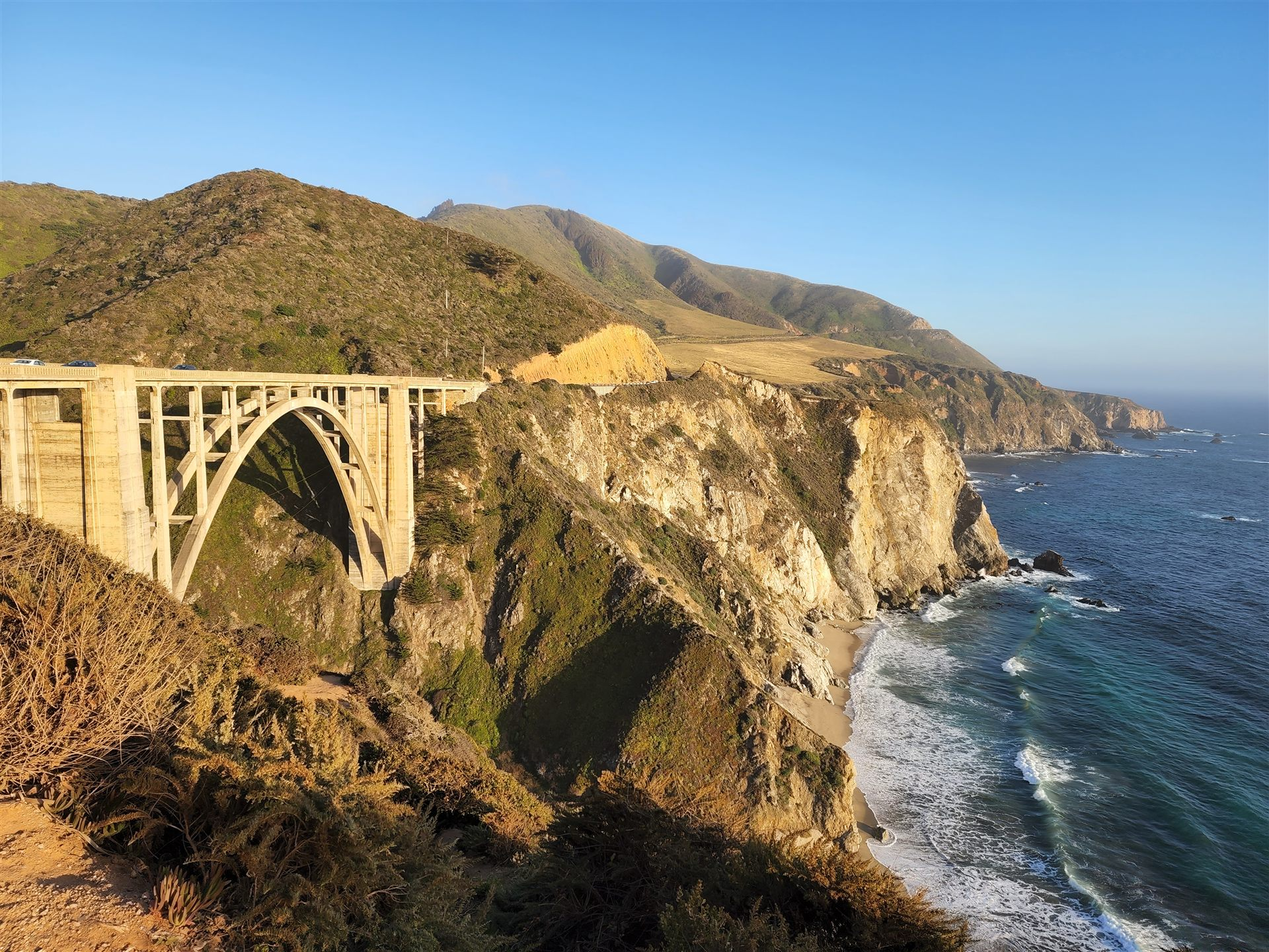
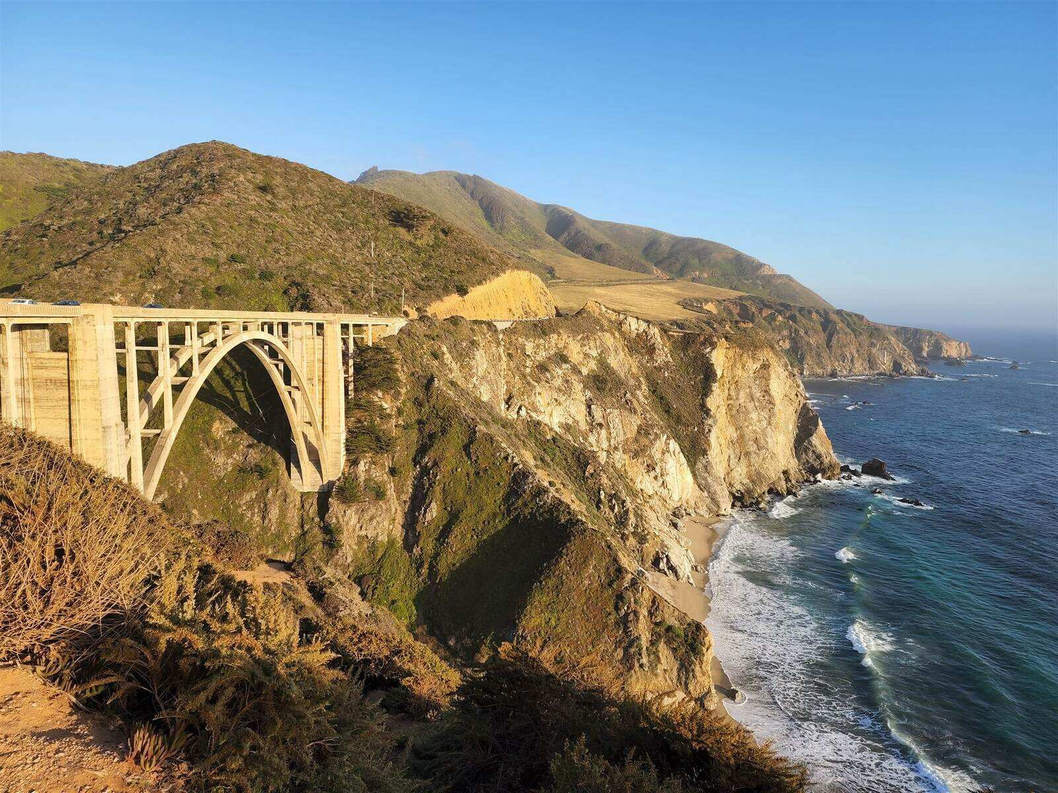
rendering-fixes-2

diff --git a/index.html b/index.html
@@ -6,14 +6,36 @@
     <meta name="viewport" content="width=device-width, initial-scale=1.0">
     <meta name="description" content="Luke Poltorak - Web Developer, CTO, and Designer Portfolio.">
     <title>Poltorak.dev | Luke Poltorak</title>
+    <link rel="canonical" href="https://poltorak.dev/">
+    <meta property="og:type" content="website">
+    <meta property="og:title" content="Luke Poltorak | Web Developer, CTO, Designer">
+    <meta property="og:description" content="Luke Poltorak - Web Developer, CTO, and Designer Portfolio.">
+    <meta property="og:url" content="https://poltorak.dev/">
+    <meta property="og:image" content="https://poltorak.dev/src/square-mug-2.jpg">
+    <meta name="twitter:card" content="summary">
+    <meta name="twitter:title" content="Luke Poltorak | Web Developer, CTO, Designer">
+    <meta name="twitter:description" content="Luke Poltorak - Web Developer, CTO, and Designer Portfolio.">
+    <meta name="twitter:image" content="https://poltorak.dev/src/square-mug-2.jpg">
     <link rel="icon" type="image/x-icon" href="src/laptop-96.png">
     <link rel="stylesheet" type="text/css" href="vars.css">
     <link rel="stylesheet" type="text/css" href="styles.css">
-    <link rel="stylesheet" type="text/css" href="utility.css">
     <link rel="stylesheet" type="text/css" href="media.css">
     <link rel="preconnect" href="https://fonts.googleapis.com">
     <link rel="preconnect" href="https://fonts.gstatic.com" crossorigin>
-    <link href="https://fonts.googleapis.com/css2?family=Nunito+Sans:ital,opsz,wght@0,6..12,200..1000;1,6..12,200..1000&display=swap" rel="stylesheet">
+    <link href="https://fonts.googleapis.com/css2?family=Nunito+Sans:wght@400;700&display=swap" rel="stylesheet">
+    <script type="application/ld+json">
+    {
+      "@context": "https://schema.org",
+      "@type": "Person",
+      "name": "Luke Poltorak",
+      "url": "https://poltorak.dev/",
+      "jobTitle": ["Web Developer", "CTO", "Designer"],
+      "sameAs": [
+        "https://github.com/lpolt",
+        "https://www.linkedin.com/in/luke-poltorak/"
+      ]
+    }
+    </script>
 </head>
 
 <body class="fade-in-0">
@@ -27,19 +49,17 @@
 
             <p class="hero-title">Web Developer | CTO | Designer</p>
 
-            <footer>
-                <nav class="social-links" aria-label="Social Profiles">
-                    <a class="social-btn" href="https://github.com/lpolt" target="_blank" rel="noopener noreferrer" aria-label="GitHub Profile">
-                        <img class="imglink" src="src/icons8-github-240.svg" alt="GitHub">
-                    </a>
-                    <a class="social-btn" href="mailto:luke.j.poltorak@gmail.com" aria-label="Send Email">
-                        <img class="imglink" src="src/icons8-gmail-144.svg" alt="Email">
-                    </a>
-                    <a class="social-btn" href="https://www.linkedin.com/in/luke-poltorak/" target="_blank" rel="noopener noreferrer" aria-label="LinkedIn Profile">
-                        <img class="imglink" src="src/icons8-linkedin-250.svg" alt="LinkedIn">
-                    </a>
-                </nav>
-            </footer>
+            <nav class="social-links" aria-label="Social Profiles">
+                <a class="social-btn" href="https://github.com/lpolt" target="_blank" rel="noopener noreferrer" aria-label="GitHub Profile">
+                    <img class="imglink" src="src/icons8-github-240.svg" alt="GitHub">
+                </a>
+                <a class="social-btn" href="mailto:luke.j.poltorak@gmail.com" aria-label="Send Email">
+                    <img class="imglink" src="src/icons8-gmail-144.svg" alt="Email">
+                </a>
+                <a class="social-btn" href="https://www.linkedin.com/in/luke-poltorak/" target="_blank" rel="noopener noreferrer" aria-label="LinkedIn Profile">
+                    <img class="imglink" src="src/icons8-linkedin-250.svg" alt="LinkedIn">
+                </a>
+            </nav>
         </div>
 
         <div class="divider-wrapper fade-in-2">

diff --git a/styles.css b/styles.css
@@ -235,6 +235,14 @@ h1 {
   background-image: url('src/drem-crop.jpg');
 }
 
+.drem-card .card-overlay {
+  background: linear-gradient(90deg, rgba(0, 0, 0, 0.7) 0%, rgba(0, 0, 0, 0.35) 55%, rgba(0, 0, 0, 0.8) 100%);
+}
+
+.drem-card:hover .card-overlay {
+  background: linear-gradient(90deg, rgba(0, 0, 0, 0.6) 0%, rgba(0, 0, 0, 0.3) 55%, rgba(0, 0, 0, 0.85) 100%);
+}
+
 .bscu-card {
   background-image: url('src/bscu-logo-w.png');
   background-color: #18191c;
@@ -270,13 +278,16 @@ h1 {
   flex-direction: row;
   align-items: center;
   justify-content: space-between;
+  gap: 12px;
   height: 100%;
   width: 100%;
 }
 
 .wordmark {
   max-height: 42px;
+  max-width: 42%;
   width: auto;
+  flex-shrink: 0;
   object-fit: contain;
   filter: drop-shadow(0 2px 6px rgba(0, 0, 0, 0.6));
 }
@@ -284,7 +295,9 @@ h1 {
 .bscu-wordmark,
 .flourish-wordmark {
   max-height: 50px;
+  max-width: 42%;
   width: auto;
+  flex-shrink: 0;
   object-fit: contain;
   filter: drop-shadow(0 2px 6px rgba(0, 0, 0, 0.6));
 }
@@ -296,9 +309,14 @@ h1 {
   gap: 6px;
   text-align: right;
   margin-top: 0;
+  min-width: 0;
 }
 
 .card-title {
+  max-width: 100%;
+  overflow: hidden;
+  text-overflow: ellipsis;
+  white-space: nowrap;
   font-size: 1.15rem;
   font-weight: 700;
   color: #ffffff;
@@ -306,6 +324,10 @@ h1 {
 }
 
 .card-tag {
+  max-width: 100%;
+  overflow: hidden;
+  text-overflow: ellipsis;
+  white-space: nowrap;
   font-size: 0.72rem;
   font-weight: 600;
   text-transform: uppercase;
